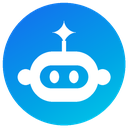
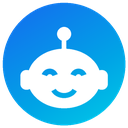
design(tabs): a friendlier robot on the raised AI button — round head, smiling eyes, antenna

diff --git a/DESIGN.md b/DESIGN.md
@@ -45,7 +45,7 @@ iOS (flags on) is a glass-on-colour system.
 - **Cards** are frosted panes, not real glass (a native glass view per list row is too heavy): `glassFill` + `glassLine`, a short bright
   top sheen, no shadow (a shadow would show through the translucent fill). Card-shaped surfaces that are not `<Card>` (rows, panels,
   inputs) use the same two tokens; `surface` stays for opaque things (thumbs, sheets' content). Do not nest cards.
-- The tab bar is the system `NativeTabs` bar; the app's theme is handed to iOS (`Appearance.setColorScheme`) so it matches. The AI tab is a raised button: its slot in the system bar is an empty image, and `AiRaisedButton` stands in it — a brand-gradient disc with a white visor-and-headphones robot head with a spark antenna (no text) (`assets/tabs/ai-orb*.png`) rising above the bar with no caption and a soft ring that breathes out every few seconds (off with Reduce Motion). The AI tab is always the middle slot (an empty disabled `gap` slot beside it when the tab count is even), so the button is centred on the screen; its height constants are at the top of the file. Glows, aurora and glass spheres were tried and dropped as too flashy for the calm, exact tone.
+- The tab bar is the system `NativeTabs` bar; the app's theme is handed to iOS (`Appearance.setColorScheme`) so it matches. The AI tab is a raised button: its slot in the system bar is an empty image, and `AiRaisedButton` stands in it — a brand-gradient disc with a white round, smiling robot head with an antenna (no text) (`assets/tabs/ai-orb*.png`) rising above the bar with no caption and a soft ring that breathes out every few seconds (off with Reduce Motion). The AI tab is always the middle slot (an empty disabled `gap` slot beside it when the tab count is even), so the button is centred on the screen; its height constants are at the top of the file. Glows, aurora and glass spheres were tried and dropped as too flashy for the calm, exact tone.
 
 ## Materials (Android — Material 3 Expressive)
 
